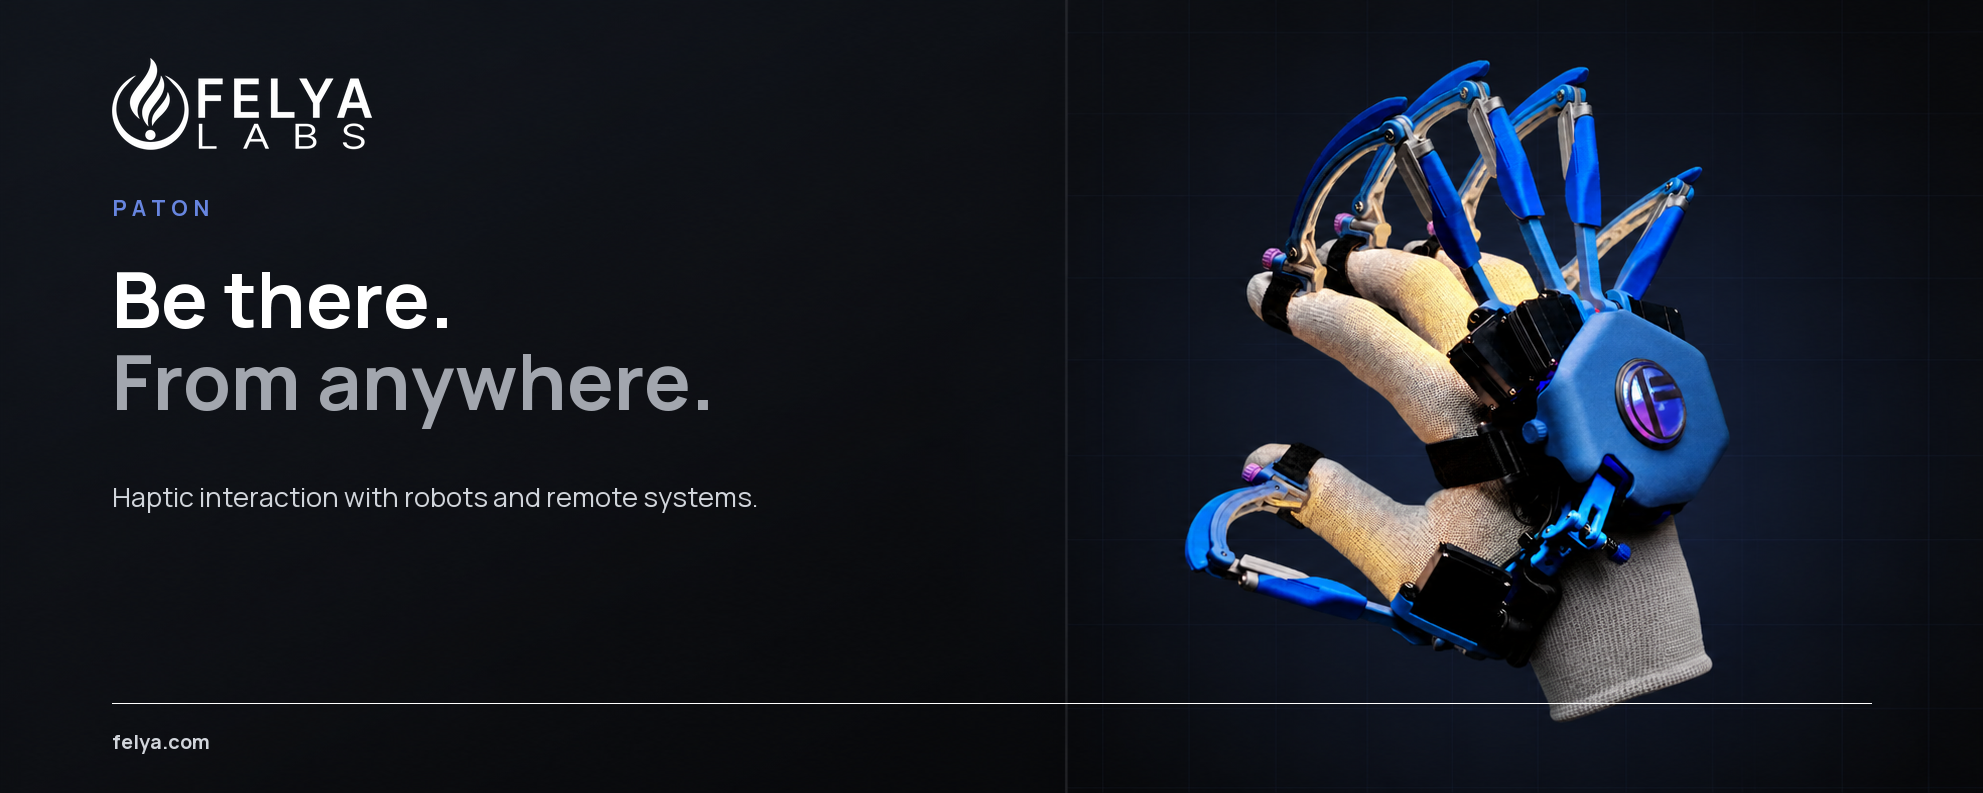
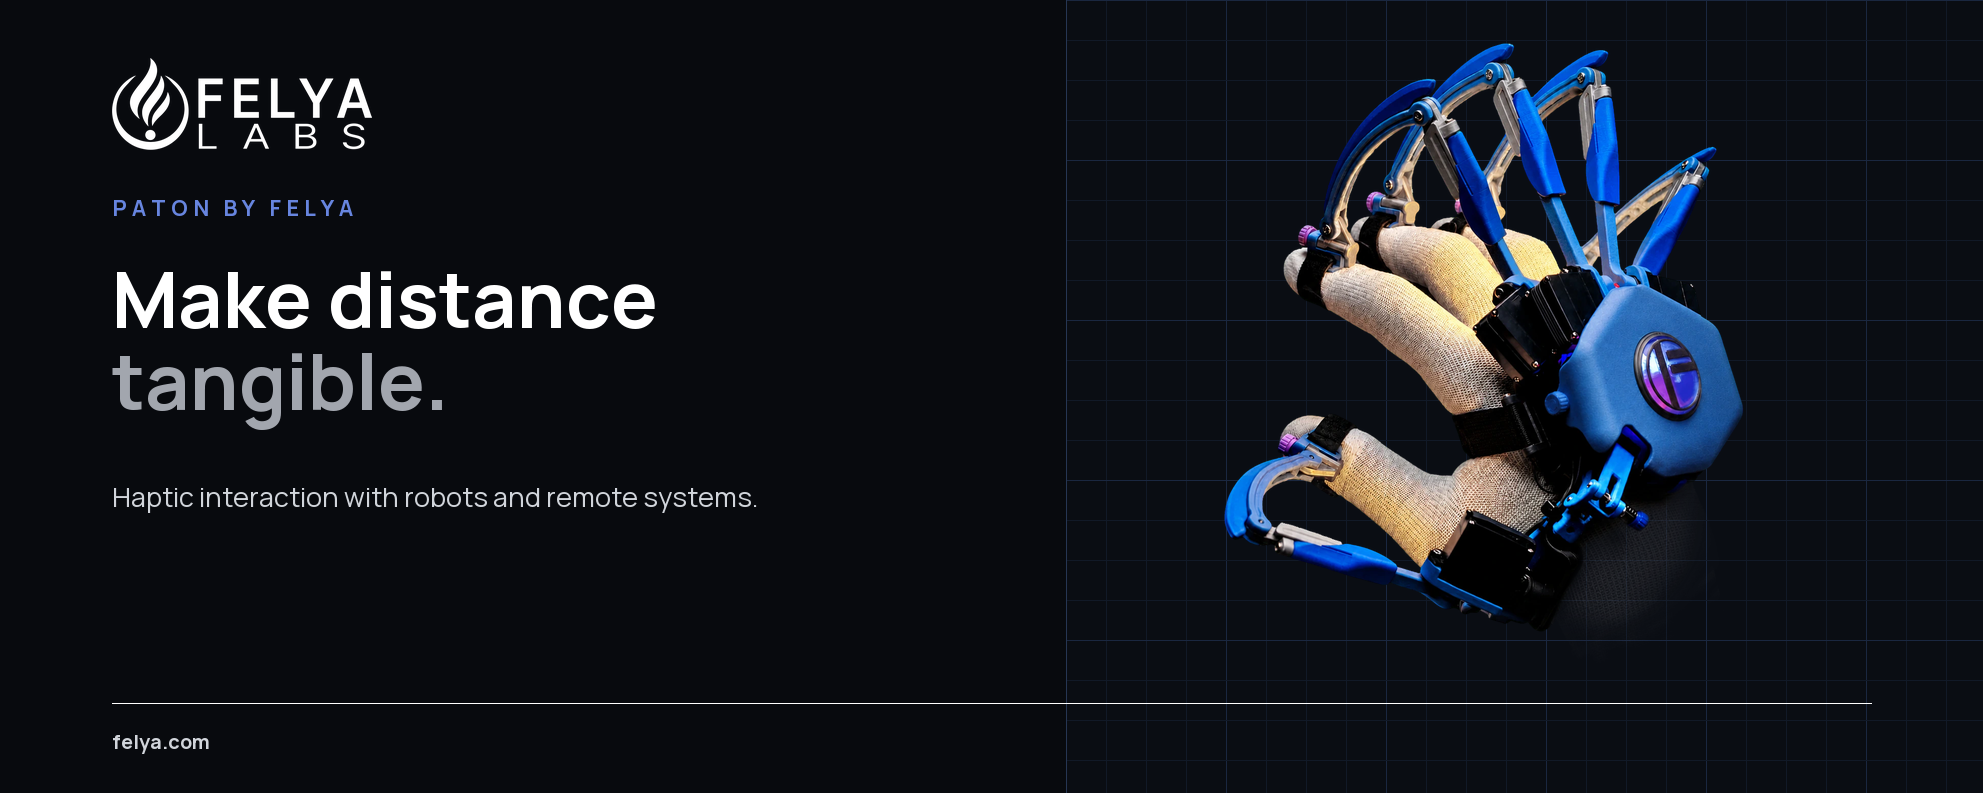
design: refine public profile story

diff --git a/profile/README.md b/profile/README.md
@@ -1,13 +1,15 @@
 [![PATON haptic glove](assets/paton-banner.png)](https://felya.com)
 
-FELYA develops PATON, a haptic interface for intuitive interaction with robots and remote systems.
+FELYA is building PATON, a haptic interface that makes remote robotic work tangible, intuitive and precise.
+
+PATON gives operators a direct sense of interaction with robots and remote systems — even when the work happens far beyond physical reach.
 
 ## Explore FELYA
 
 | Destination | Purpose |
 |---|---|
-| [**felya.com**](https://felya.com) | Meet FELYA, PATON and the systems we are building |
-| [**FELYA Brand Guide**](https://brand.felya.com) | Explore our visual language, design tokens and assets |
+| [**felya.com**](https://felya.com) | Discover FELYA, PATON and our approach to haptic interaction |
+| [**FELYA Brand Guide**](https://brand.felya.com) | Explore our visual system, design tokens and brand assets |
 
 ## Published on GitHub
 
@@ -19,4 +21,4 @@ FELYA develops PATON, a haptic interface for intuitive interaction with robots a
 
 ## Work with us
 
-Interested in haptics, robotics, embodied interfaces or remote physical work? Visit [felya.com](https://felya.com) or contact [info@felya.com](mailto:info@felya.com).
+Interested in haptics, robotics, embodied interfaces or the future of remote physical work? Explore [felya.com](https://felya.com) or contact [info@felya.com](mailto:info@felya.com).
